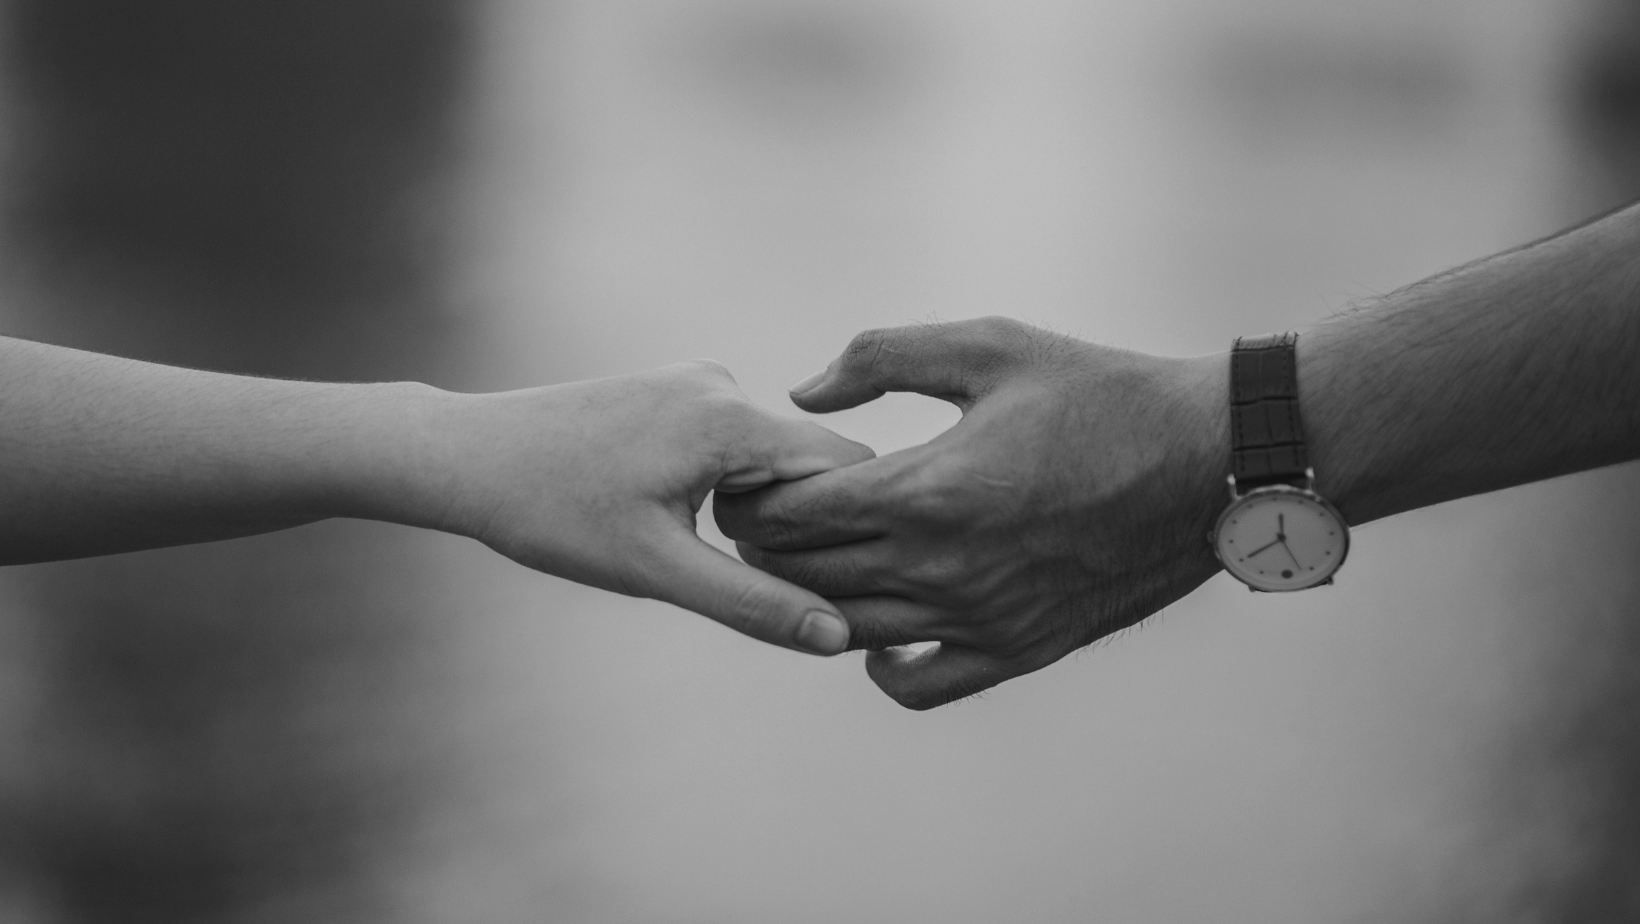
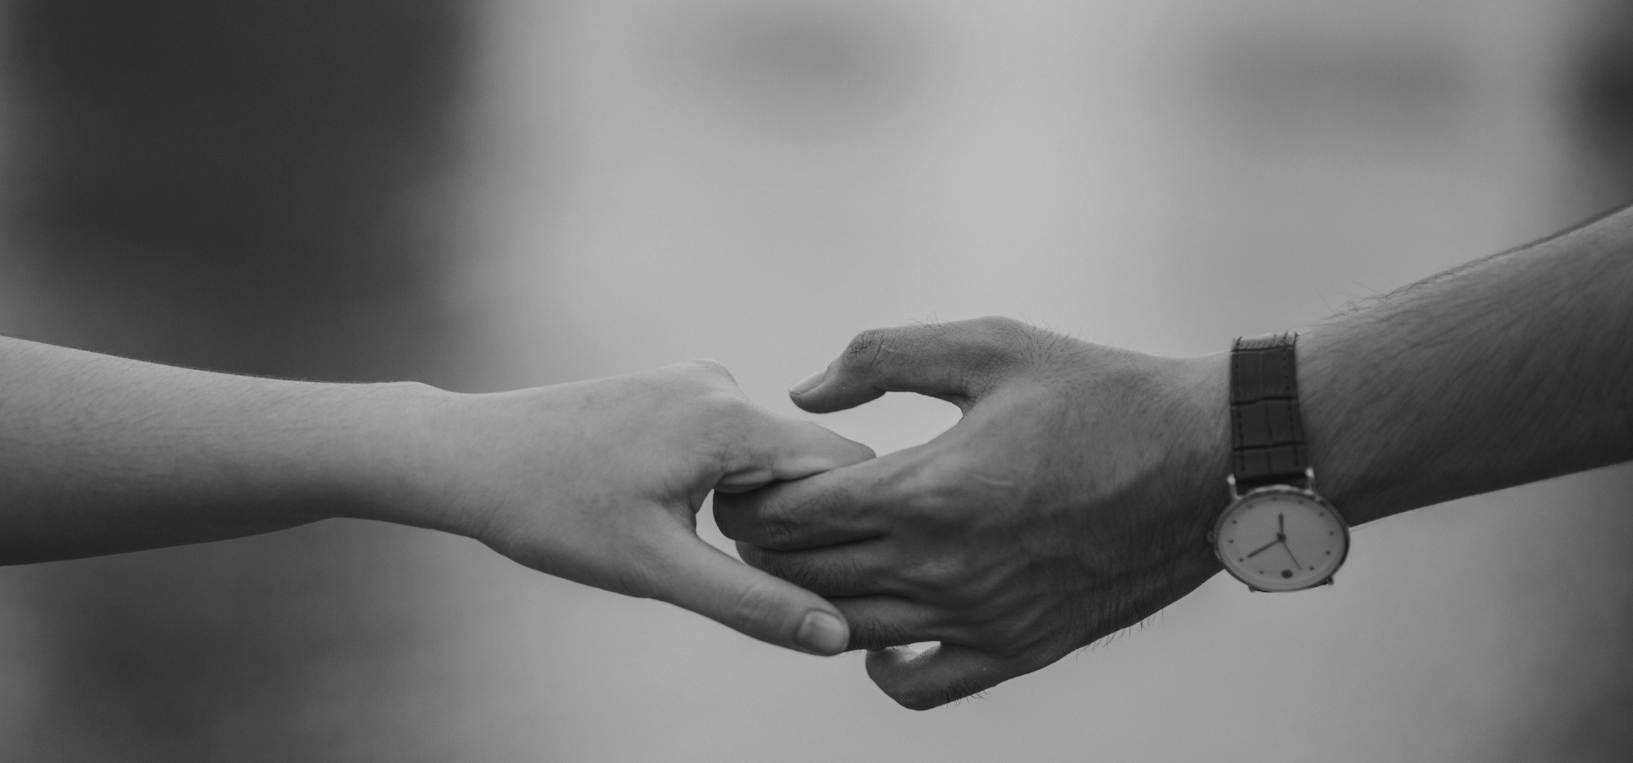
Correcciones de scss y keywords

diff --git a/assets/css/style.css b/assets/css/style.css
@@ -310,18 +310,18 @@ section {
   background: url("../img/fondo.png") top right;
   background-size: cover; }
   #hero .container {
-    padding-top: 70px;
-    position: relative; }
+    position: relative;
+    bottom: 5vh; }
   #hero h1 {
-    margin: 0;
+    margin-top: 40px;
     font-size: 48px;
     font-weight: 700;
     line-height: 56px;
     color: #444444; }
-  #hero h2 {
-    color: black;
-    margin: 10px 0 0 0;
-    font-size: 22px; }
+  #hero h3 {
+    text-align: center;
+    color: #444444;
+    font-weight: 500; }
   #hero .btn-about {
     font-family: "Raleway", sans-serif;
     text-transform: uppercase;
@@ -383,19 +383,19 @@ section {
 
 /*USANDO MAPS*/
 #patologia1 {
-  color: #f83838; }
+  color: #1c0d02; }
 
 #patologia2 {
-  color: #4db125; }
+  color: #4b3621; }
 
 #patologia3 {
-  color: #2fc5ca; }
+  color: #a18594; }
 
 #patologia4 {
-  color: #722fdd; }
+  color: #572364; }
 
 #patologia5 {
-  color: #eb29aa; }
+  color: #5d9b9b; }
 
 /*sobreMi y a quienes ayudamos --> ACÁ USE MAPS*/
 /*--------------------------------------------------------------

diff --git a/pages/sobreMi.html b/pages/sobreMi.html
@@ -7,7 +7,7 @@
 
   <title>Silvina Psicología</title>
   <meta content="Atención psicológica a distancia para adultos Y adolescentes. Empezá ya a escucharte desde la comodidad de tu casa siendo atendido por una profesional con más de 20 años de experiencia. Especialidad: trastornos de ansiedad y terapia de parejas" name="description">
-  <meta content="psicologa, psicologia, terapia, universidad de belgrano, experiencia, especialista, psicoanálisis" name="keywords">
+  <meta content="psicologa, psicología, terapia, universidad de belgrano, experiencia, especialista, psicoanálisis" name="keywords">
 
   <!-- Google Fonts -->
   <link href="https://fonts.googleapis.com/css?family=Open+Sans:300,300i,400,400i,600,600i,700,700i|Raleway:300,300i,400,400i,500,500i,600,600i,700,700i|Poppins:300,300i,400,400i,500,500i,600,600i,700,700i" rel="stylesheet">

diff --git a/pages/conseguiTuTurno.html b/pages/conseguiTuTurno.html
@@ -7,7 +7,7 @@
 
   <title>Silvina Psicología</title>
   <meta content="Empezá ya terapia online y date un espacio para mejorar y escucharte. Conseguí tu turno de forma fácil en nuestra web y atendete con una psicóloga de más de 20 años de experiencia." name="description">
-  <meta content="turno online, terapia, psicologa, psicologia, turno, contacto, osde" name="keywords">
+  <meta content="turno online, terapia, psicologa, psicología, turno, contacto, osde" name="keywords">
 
   <!-- Google Fonts -->
   <link href="https://fonts.googleapis.com/css?family=Open+Sans:300,300i,400,400i,600,600i,700,700i|Raleway:300,300i,400,400i,500,500i,600,600i,700,700i|Poppins:300,300i,400,400i,500,500i,600,600i,700,700i" rel="stylesheet">

diff --git a/assets/scss/_landingPage.scss b/assets/scss/_landingPage.scss
@@ -7,24 +7,24 @@
     background: url("../img/fondo.png" ) top right;
     background-size: cover;
     .container {
-        padding-top: 70px;
         position: relative;
+        bottom:5vh;
       }
 
       h1 {
-        margin: 0;
+        margin-top:40px;
         font-size: 48px;
         font-weight: 700;
         line-height: 56px;
         color: $grisOscuro;
       }
+      h3 {
+        text-align: center;
+        color:$grisOscuro;
+        font-weight: 500;
+        }
 
-    h2 {
-        color:$negro;
-        margin: 10px 0 0 0;
-        font-size: 22px;
-      }
-
+   
     .btn-about {
         font-family: "Raleway", sans-serif;
         text-transform: uppercase;

diff --git a/index.html b/index.html
@@ -7,7 +7,7 @@
 
   <title>Silvina Psicología</title>
   <meta content="Atención psicológica a distancia para adultos Y adolescentes. Empezá ya a escucharte desde la comodidad de tu casa siendo atendido por una profesional con más de 20 años de experiencia. Especialidad: trastornos de ansiedad y terapia de parejas" name="description">
-  <meta content="psicologia, psicologa, terapia, online, buenos aires, depresion, angustia" name="keywords">
+  <meta content="psicología, psicologa, terapia, online, buenos aires, depresión, angustia, ansiedad" name="keywords">
 
 
 

diff --git a/assets/scss/_about.scss b/assets/scss/_about.scss
@@ -30,11 +30,11 @@
 
 /*USANDO MAPS*/
 $pato: ( /*Declaramos nuestro mapa*/
-        1: #f83838,
-        2:  #4db125,
-        3: #2fc5ca,
-        4:#722fdd,
-        5: #eb29aa
+        1: #1c0d02,
+        2:  #4b3621,
+        3: #a18594,
+        4:#572364,
+        5: #5d9b9b
 ); 
 
 @each $pato, $color in $pato {
